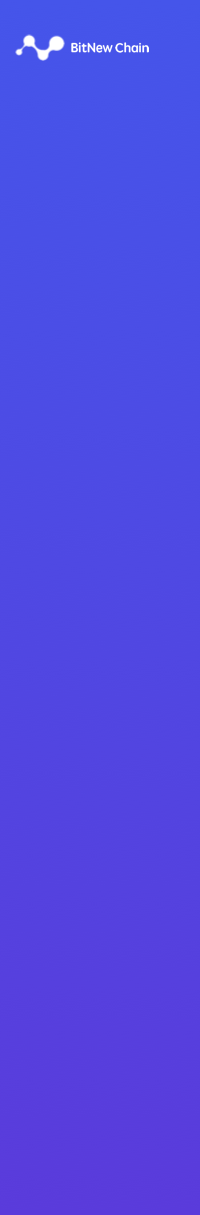
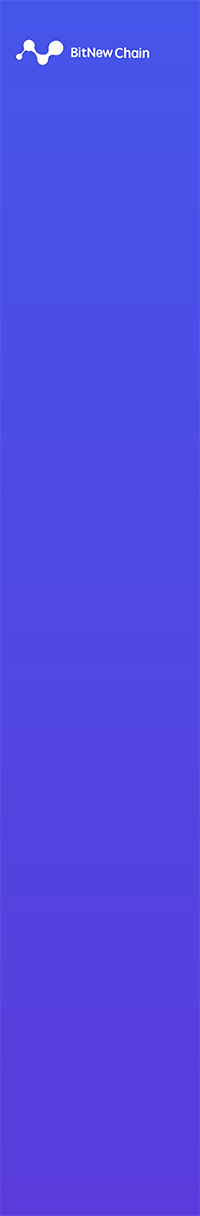
it makes splash_bg.png clear, and change button edge, and add mac QLabel at ToolBars

Changed region(s): [[0.36, 0.0305, 0.75, 0.0609], [0.06, 0.0305, 0.33, 0.0609]]

diff --git a/src/qt/res/styles/buttonblack.css b/src/qt/res/styles/buttonblack.css
@@ -14,7 +14,7 @@ QPushButton {
     /*border: 1px solid #4752E8; */
     background-color: #FFFFFF;
     color: #4752E8;
-    border-radius: 16px;
+    border-radius: 14px;
 }
 QPushButton:hover{
 	/*background: #0a16bc;*/

diff --git a/src/qt/splashscreen.cpp b/src/qt/splashscreen.cpp
@@ -64,8 +64,9 @@ SplashScreen::SplashScreen(Qt::WindowFlags f, const NetworkStyle *networkStyle) 
     pixPaint.fillRect(mainRect, QColor("#030509"));
 
     // draw background
-    // QRect rectBg(QPoint(-50, -50), QSize(splashSize.width() + 50, splashSize.height() + 50));
-    QRect rectBg(QPoint(-25, -25), QSize(splashSize.width() + 50, splashSize.height() + 50));
+    //QRect rectBg(QPoint(-50, -50), QSize(splashSize.width() + 50, splashSize.height() + 50));
+    //QRect rectBg(QPoint(-25, -25), QSize(splashSize.width() + 50, splashSize.height() + 50));
+    QRect rectBg(QPoint(0, 0), QSize(splashSize.width(), splashSize.height()));
     QPixmap bg(":/styles/app-icons/splash_bg");
     pixPaint.drawPixmap(rectBg, bg);
 

diff --git a/src/qt/overviewpage.cpp b/src/qt/overviewpage.cpp
@@ -84,7 +84,7 @@ public:
 
         QRect dateRect(mainRect.left() + MARGIN, mainRect.top(), DATE_WIDTH, TX_SIZE);
 	QFont font;
-	font.setPointSize(10);
+	//font.setPointSize(10);
 	painter->setFont(font);
         painter->drawText(dateRect, Qt::AlignLeft|Qt::AlignVCenter, tr("%1").arg(GUIUtil::dateTimeStr(date)));
 
@@ -122,7 +122,7 @@ public:
 
         QFont amountFont = option.font;
         amountFont.setBold(true);
-	amountFont.setPointSize(12);
+	//amountFont.setPointSize(12);
         painter->setFont(amountFont);
 
         if(amount < 0)

diff --git a/src/qt/bitcoingui.cpp b/src/qt/bitcoingui.cpp
@@ -565,6 +565,9 @@ void BitcoinGUI::createToolBars()
     {
         // Create custom tool bar component
         appNavigationBar = new NavigationBar();
+#ifdef Q_OS_MAC
+        addDockWindows(Qt::LeftDockWidgetArea, new QLabel());
+#endif
         addDockWindows(Qt::LeftDockWidgetArea, appNavigationBar);
 
         // Fill the component with actions

diff --git a/src/clientversion.h b/src/clientversion.h
@@ -26,7 +26,7 @@
  * Copyright year (2009-this)
  * Todo: update this when changing our copyright comments in the source
  */
-#define COPYRIGHT_YEAR 2017
+#define COPYRIGHT_YEAR 2018
 
 #endif //HAVE_CONFIG_H
 
